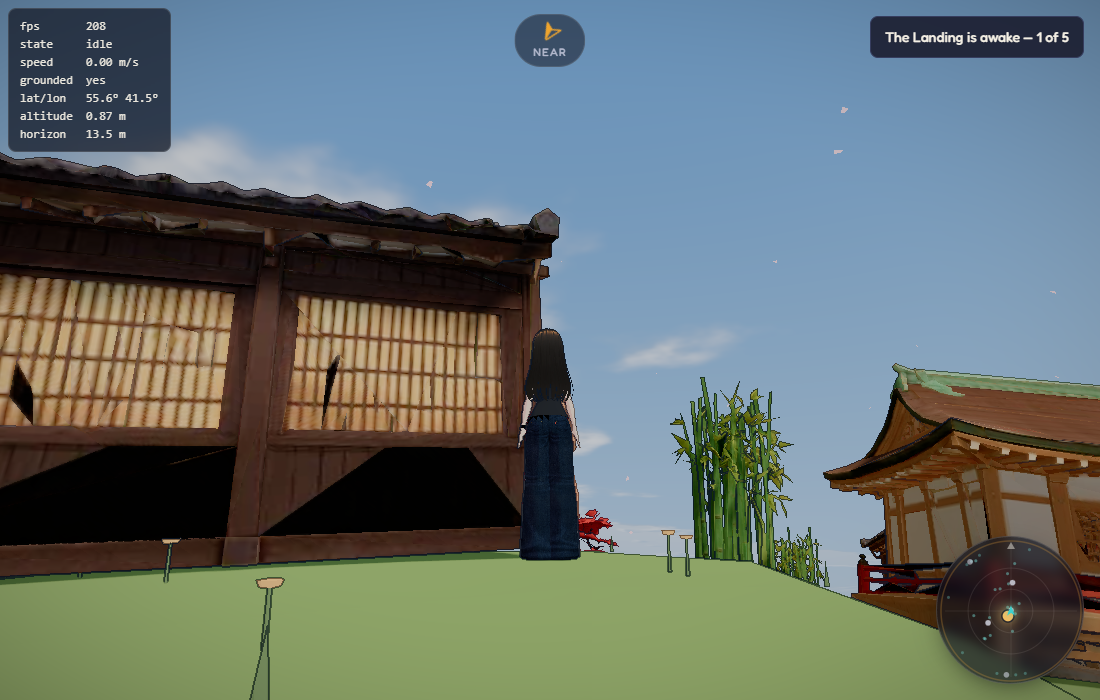
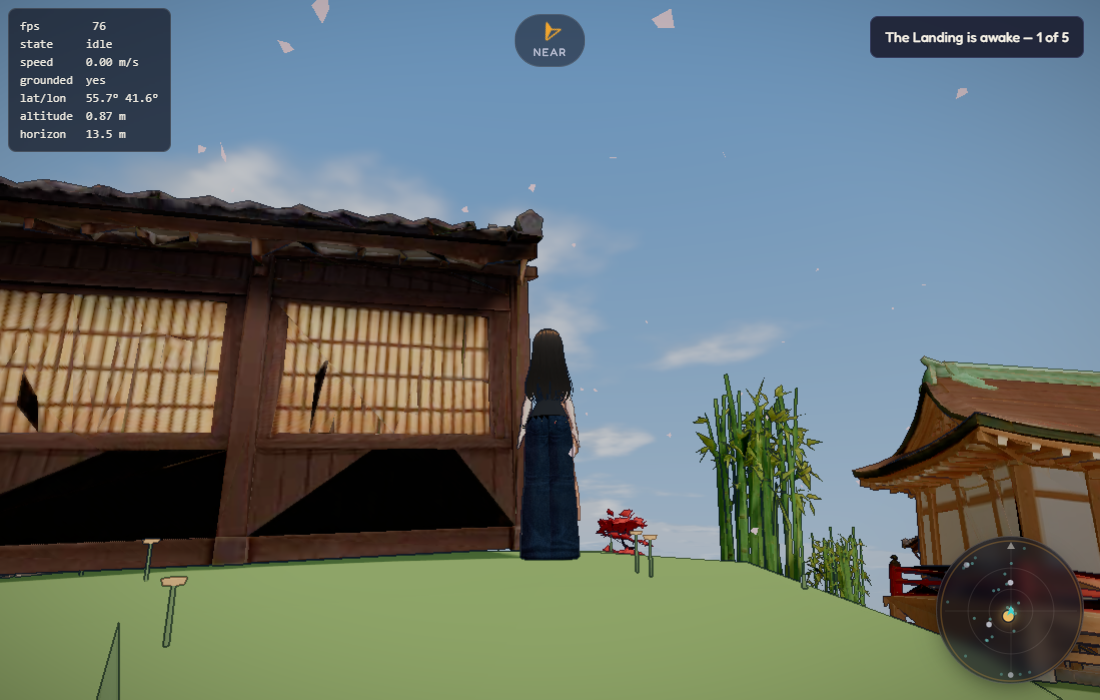
feat: the Coil steams, and Tidebreak finally has a sea
The two districts still built from grey primitives, made Japanese without a
single new model.

The Coil keeps its verticals — a district is its silhouette — but they are
copper standpipes now, with verdigris collars in the district's own teal,
each rising from a stone basin the spring fills. Every other one vents steam:
one metered puff per vent per seventh of a second, only within earshot of
the player, dim blue-grey because additive particles are as bright as they
are opaque. Finn's "core" is the source under the ground.

Tidebreak's whole story is a pier over the sea, and a probe found no water
within a hundred and twenty metres of it — the noise makes a planet nine
parts land. So the layout cuts a lagoon: the same pad mechanism that levels
the ground under a house, run below the waterline, flagged not to merge with
the house terraces on its shore. Knee-deep on purpose: nothing keeps the
player out of the water, and at a metre and a half the camera went under
with her. A torii stands in the shallows facing the beach, the district's
landmark and the one thing on the planet that stands in the sea. The decks
are weathered cedar with a rope loop on every mooring post.

diff --git a/src/game/world/layout.ts b/src/game/world/layout.ts
@@ -1,8 +1,8 @@
 import * as THREE from 'three';
-import { PLANET_RADIUS } from '@config/constants';
+import { PLANET_RADIUS, SEA_LEVEL_RADIUS } from '@config/constants';
 import { PlanetTerrain, type TerrainPad, type TerrainPath } from './PlanetTerrain';
 import { scatterAround, surfacePoint } from './placement';
-import { DISTRICTS, type DistrictId } from '../../data/content';
+import { DISTRICTS, NPCS, type DistrictId } from '../../data/content';
 
 /**
  * Where everything in the world goes — decided before the ground is built.
@@ -62,6 +62,13 @@ export interface WorldLayout {
   districts: Map<DistrictId, DistrictLayout>;
   shrine: ShrinePrecinct;
   lighthouse: THREE.Vector3;
+  /**
+   * Tidebreak's landmark: a torii standing in the shallows off its shore,
+   * facing the land. Null only if the district has no water within reach.
+   */
+  seaTorii: Placed | null;
+  /** Where the Coil's springs vent steam — the tops of its standpipes. */
+  vents: THREE.Vector3[];
   /** Trees and rocks across the whole planet, outside the settlements. */
   wilderness: { trees: THREE.Vector3[][]; rocks: THREE.Vector3[]; cover: THREE.Vector3[] };
 }
@@ -129,6 +136,46 @@ function planShrine(taken: THREE.Vector3[]): ShrinePrecinct {
   );
 
   return { gates, lanterns, hall, momiji, sakura, path: { from: at(20), to: at(0) } };
+}
+
+/**
+ * The nearest stretch of open water to a point, for something that stands
+ * *in* the sea rather than beside it.
+ *
+ * A spiral outward from the centre, taking the first direction where the
+ * ground is comfortably under the waterline — deep enough that the swell does
+ * not expose the seabed around it — and returning the point at the surface.
+ */
+function planSeaTorii(centre: THREE.Vector3): Placed | null {
+  const { up, along, side } = frameAt(centre);
+  // Deep enough to be *in* the water, not at its edge: the lagoon's shelf is
+  // 0.62 under, so this lands a few metres past the waterline.
+  const DEPTH = 0.58;
+  let best: { direction: THREE.Vector3; distance: number } | null = null;
+
+  for (let ring = 4; ring <= 40 && !best; ring += 2) {
+    const steps = Math.max(8, Math.round(ring * 1.5));
+    for (let i = 0; i < steps; i++) {
+      const a = (i / steps) * Math.PI * 2;
+      const direction = centre
+        .clone()
+        .addScaledVector(along, Math.cos(a) * ring)
+        .addScaledVector(side, Math.sin(a) * ring)
+        .normalize();
+      if (PlanetTerrain.heightAt(direction) < SEA_LEVEL_RADIUS - DEPTH) {
+        best = { direction, distance: ring };
+        break;
+      }
+    }
+  }
+  if (!best) return null;
+
+  // Face the shore: the passage (local Z) points back at the district centre,
+  // so from the beach you look out through the gate to the sea.
+  const position = best.direction.clone().multiplyScalar(SEA_LEVEL_RADIUS + 0.08);
+  const toCentre = centre.clone().sub(position).projectOnPlane(up).normalize();
+  const yaw = Math.atan2(toCentre.dot(side), toCentre.dot(along));
+  return { position, yaw };
 }
 
 /**
@@ -210,7 +257,36 @@ export function planWorld(): WorldLayout {
   PlanetTerrain.setPads([]);
   PlanetTerrain.setPaths([]);
 
-  const pads: TerrainPad[] = [];
+  // Tidebreak's sea, first of all — because it has to exist before anything
+  // is scattered, or the scatter puts a stall on what is about to be seabed.
+  //
+  // The noise makes a planet that is nine parts land, and the district whose
+  // whole story is a pier over the water had no water within a hundred
+  // metres. A pad cut below the waterline is a lagoon: the same mechanism
+  // that levels the ground under a house, run the other way, and because it
+  // lives in `heightAt` the beach, the collision and the water's edge all
+  // agree about where it is. Placed on the far side of the centre from Sol,
+  // who has to stay on dry land.
+  const tidebreak = districtCentre('tidebreak');
+  const sol = surfacePoint(NPCS.find((n) => n.id === 'sol')!.at, 0);
+  const awayFromSol = tidebreak
+    .clone()
+    .sub(sol)
+    .projectOnPlane(tidebreak.clone().normalize())
+    .normalize();
+  // Knee-deep, on purpose. Nothing stops the player walking into the sea,
+  // and at a metre and a half the camera went under with her; at this depth
+  // she wades, the gate still stands in water, and the bed is a sandy shelf.
+  const lagoon: TerrainPad = {
+    direction: tidebreak.clone().addScaledVector(awayFromSol, 30).normalize(),
+    height: SEA_LEVEL_RADIUS - 0.62,
+    flat: 14,
+    blend: 26,
+    merge: false,
+  };
+  PlanetTerrain.setPads([lagoon]);
+
+  const pads: TerrainPad[] = [lagoon];
   const paths: TerrainPath[] = [];
   const districts = new Map<DistrictId, DistrictLayout>();
   const everything: THREE.Vector3[] = [];
@@ -281,6 +357,15 @@ export function planWorld(): WorldLayout {
   pads.push(PlanetTerrain.padAt(lighthouse, 3.5, 9));
   everything.push(lighthouse);
 
+  const seaTorii = planSeaTorii(districtCentre('tidebreak'));
+  if (seaTorii) everything.push(seaTorii.position);
+
+  // Steam rises from the standpipe mouths, about three metres up. Every
+  // other one — a district where every pipe vents is a fog bank.
+  const vents = (districts.get('coil')?.props ?? [])
+    .filter((_, i) => i % 2 === 0)
+    .map((p) => p.clone().addScaledVector(p.clone().normalize(), 3.1));
+
   const wilderness = planWilderness(everything);
 
   PlanetTerrain.setPads(pads);
@@ -304,5 +389,5 @@ export function planWorld(): WorldLayout {
   wilderness.rocks.forEach(settle);
   wilderness.cover.forEach(settle);
 
-  return { districts, shrine, lighthouse, wilderness };
+  return { districts, shrine, lighthouse, seaTorii, vents, wilderness };
 }

diff --git a/src/game/entities/districtProps.ts b/src/game/entities/districtProps.ts
@@ -142,38 +142,87 @@ function buildTrees(positions: THREE.Vector3[], seed: number): THREE.InstancedMe
   ];
 }
 
-/** The Coil: vertical pipes and squat tanks — industrial verticality. */
+/**
+ * The Coil: hot-spring works.
+ *
+ * The verticals stay — a district has to keep its silhouette — but grey
+ * industrial pipe had no place on this planet. These are copper standpipes
+ * with verdigris collars, each rising from a stone basin the spring fills,
+ * and the pool in the basin is the district's own teal. The "core" Finn talks
+ * about is the source under the ground; the steam is added by the scene.
+ */
 function buildPipes(positions: THREE.Vector3[], seed: number): THREE.InstancedMesh[] {
-  const pipe = new THREE.CylinderGeometry(0.22, 0.22, 3.4, 8);
+  const pipe = new THREE.CylinderGeometry(0.2, 0.22, 3.4, 8);
   pipe.translate(0, 1.7, 0);
 
-  const collar = new THREE.TorusGeometry(0.3, 0.07, 6, 12);
-  collar.rotateX(Math.PI / 2);
-  collar.translate(0, 2.6, 0);
+  // Two collars: one at the mouth, one where it leaves the basin.
+  const collarTop = new THREE.TorusGeometry(0.29, 0.07, 6, 12);
+  collarTop.rotateX(Math.PI / 2);
+  collarTop.translate(0, 3.1, 0);
+  const collarBase = new THREE.TorusGeometry(0.31, 0.08, 6, 12);
+  collarBase.rotateX(Math.PI / 2);
+  collarBase.translate(0, 0.55, 0);
+  const collar = mergeGeometries([collarTop, collarBase])!;
+
+  // A stone basin with the pool inside it. The pool is a disc a hair below
+  // the rim, so the rim's shadow lands on it and it reads as sunk.
+  const basin = new THREE.CylinderGeometry(0.95, 0.8, 0.42, 10);
+  basin.translate(0, 0.21, 0);
+  const pool = new THREE.CylinderGeometry(0.8, 0.8, 0.04, 10);
+  pool.translate(0, 0.4, 0);
 
   const shape: InstanceOptions = {
-    scaleRange: [0.7, 1.4],
-    stretch: { y: 0.4 },
+    scaleRange: [0.75, 1.35],
+    stretch: { y: 0.35 },
     tint: 0.1,
   };
+  // The basin does not stretch with the pipe: a taller pipe is a taller pipe,
+  // not a deeper pool.
+  const footing: InstanceOptions = { scaleRange: [0.75, 1.35], stretch: { y: 0.35 }, tint: 0.06 };
 
   return [
-    instanced(pipe, createToonMaterial({ color: '#5d6472' }), positions, seed, shape),
-    instanced(collar, createToonMaterial({ color: '#8a6a3f' }), positions, seed, shape),
+    instanced(pipe, createToonMaterial({ color: '#9c5f3d' }), positions, seed, shape),
+    instanced(collar, createToonMaterial({ color: '#5ea59c' }), positions, seed, shape),
+    instanced(basin, createToonMaterial({ color: '#8b8b8f' }), positions, seed, footing),
+    instanced(
+      pool,
+      createToonMaterial({ color: '#5ec8c0', emissive: '#2c6f6b', emissiveIntensity: 0.6 }),
+      positions,
+      seed,
+      footing,
+    ),
   ];
 }
 
-/** Tidebreak: low boardwalk decks and mooring posts. */
+/**
+ * Tidebreak: a fishing shore.
+ *
+ * Low decks and mooring posts, in weathered cedar rather than the muddy brown
+ * they were, with a rope loop on every post so they read as moorings and not
+ * as fence. The district's landmark — a torii standing in the shallows — is
+ * an imported model and is placed by the scene.
+ */
 function buildBoardwalk(positions: THREE.Vector3[], seed: number): THREE.InstancedMesh[] {
   const deck = new THREE.BoxGeometry(2.6, 0.16, 1.4);
   deck.translate(0, 0.1, 0);
+  // Two cross-battens under the deck, so it has an underside when the
+  // ground falls away.
+  const battenA = new THREE.BoxGeometry(0.18, 0.22, 1.5);
+  battenA.translate(-0.9, 0.0, 0);
+  const battenB = new THREE.BoxGeometry(0.18, 0.22, 1.5);
+  battenB.translate(0.9, 0.0, 0);
+  const planking = mergeGeometries([deck, battenA, battenB])!;
 
-  const post = new THREE.CylinderGeometry(0.1, 0.1, 1.1, 6);
-  post.translate(0, 0.55, 0);
+  const post = new THREE.CylinderGeometry(0.1, 0.12, 1.2, 6);
+  post.translate(1.1, 0.6, 0.5);
+  const rope = new THREE.TorusGeometry(0.16, 0.035, 5, 10);
+  rope.rotateX(Math.PI / 2);
+  rope.translate(1.1, 1.0, 0.5);
 
   return [
-    instanced(deck, createToonMaterial({ color: '#7a6248' }), positions, seed, [0.8, 1.2]),
-    instanced(post, createToonMaterial({ color: '#5f4c38' }), positions, seed, [0.8, 1.2]),
+    instanced(planking, createToonMaterial({ color: '#a88a66' }), positions, seed, [0.8, 1.2]),
+    instanced(post, createToonMaterial({ color: '#6e5a44' }), positions, seed, [0.8, 1.2]),
+    instanced(rope, createToonMaterial({ color: '#d9c9a0' }), positions, seed, [0.8, 1.2]),
   ];
 }
 

diff --git a/src/game/scenes/PlanetScene.ts b/src/game/scenes/PlanetScene.ts
@@ -70,6 +70,7 @@ const _tint = new THREE.Color();
 const DUSK_TINT = new THREE.Color('#7f8aa8');
 const LIT_TINT = new THREE.Color('#ffffff');
 const _emitUp = new THREE.Vector3();
+const STEAM = new THREE.Color('#7f939b');
 const _emitPos = new THREE.Vector3();
 const DUST_COLOUR = new THREE.Color('#b9ae94');
 /** Matches the shard mesh's emissive, so the burst reads as the shard itself. */
@@ -392,6 +393,7 @@ export class PlanetScene implements IScene {
     this.updateValleyFog(dt);
     this.updateParcelVisual(dt);
     this.updateLighthouse();
+    this.updateSteam(dt);
     this.updateSky();
     this.particles.update(dt, this.renderer.camera);
     this.trackDistrict();
@@ -788,6 +790,54 @@ export class PlanetScene implements IScene {
     // point light are its children, and taking the group out would take them
     // with it.
     void this.replaceLighthouseTower(group, spirePoint);
+
+    // Tidebreak's landmark: a torii in the shallows, facing the shore. The
+    // one thing on the planet that stands in the water, which is what makes
+    // the sea a place rather than an edge.
+    const sea = this.layout.seaTorii;
+    if (sea) {
+      void this.addImportedProp('torii', [sea.position], 8.5, 13001, {
+        yaws: [sea.yaw],
+        scaleJitter: 0,
+      });
+    }
+  }
+
+  private steamClock = 0;
+
+  /**
+   * Steam off the Coil's springs.
+   *
+   * Continuous, so it is metered: one puff per vent every seventh of a second,
+   * and only for vents within earshot of the player. Additive particles are
+   * as bright as they are opaque, so the colour is a dim blue-grey — a white
+   * puff would bloom into a lamp.
+   */
+  private updateSteam(dt: number): void {
+    const vents = this.layout.vents;
+    if (vents.length === 0) return;
+    this.steamClock += dt;
+    if (this.steamClock < 0.14) return;
+    this.steamClock = 0;
+
+    const player = this.controller.smoothedPosition;
+    for (const vent of vents) {
+      if (vent.distanceToSquared(player) > 32 * 32) continue;
+      _emitUp.copy(vent).normalize();
+      this.particles.emit({
+        position: vent,
+        count: 1,
+        colour: STEAM,
+        speed: [0.45, 0.85],
+        life: [1.9, 2.9],
+        size: [0.28, 0.5],
+        direction: _emitUp,
+        spread: 0.3,
+        // Buoyant: steam speeds up as it rises rather than falling back.
+        gravity: _emitUp.clone().multiplyScalar(0.3),
+        drag: 0.5,
+      });
+    }
   }
 
   private readonly lampGroups = new Map<

diff --git a/src/game/world/PlanetTerrain.ts b/src/game/world/PlanetTerrain.ts
@@ -67,6 +67,13 @@ export interface TerrainPad {
   flat: number;
   /** Metres from the centre by which the pad has blended back into the hill. */
   blend: number;
+  /**
+   * Whether this pad joins a shared terrace with pads whose flats touch it.
+   * Default true; false for something that is not a building's footing — a
+   * lagoon cut below the waterline must not average its depth with the
+   * houses on its shore.
+   */
+  merge?: boolean;
 }
 
 /**
@@ -248,6 +255,7 @@ export class PlanetTerrain {
         const a = prepared[i]!;
         const b = prepared[j]!;
         const distance = Math.acos(Math.min(1, a.direction.dot(b.direction))) * PLANET_RADIUS;
+        if (a.merge === false || b.merge === false) continue;
         if (distance < (a.flat + b.flat) * 0.95) group[find(i)] = find(j);
       }
     }
